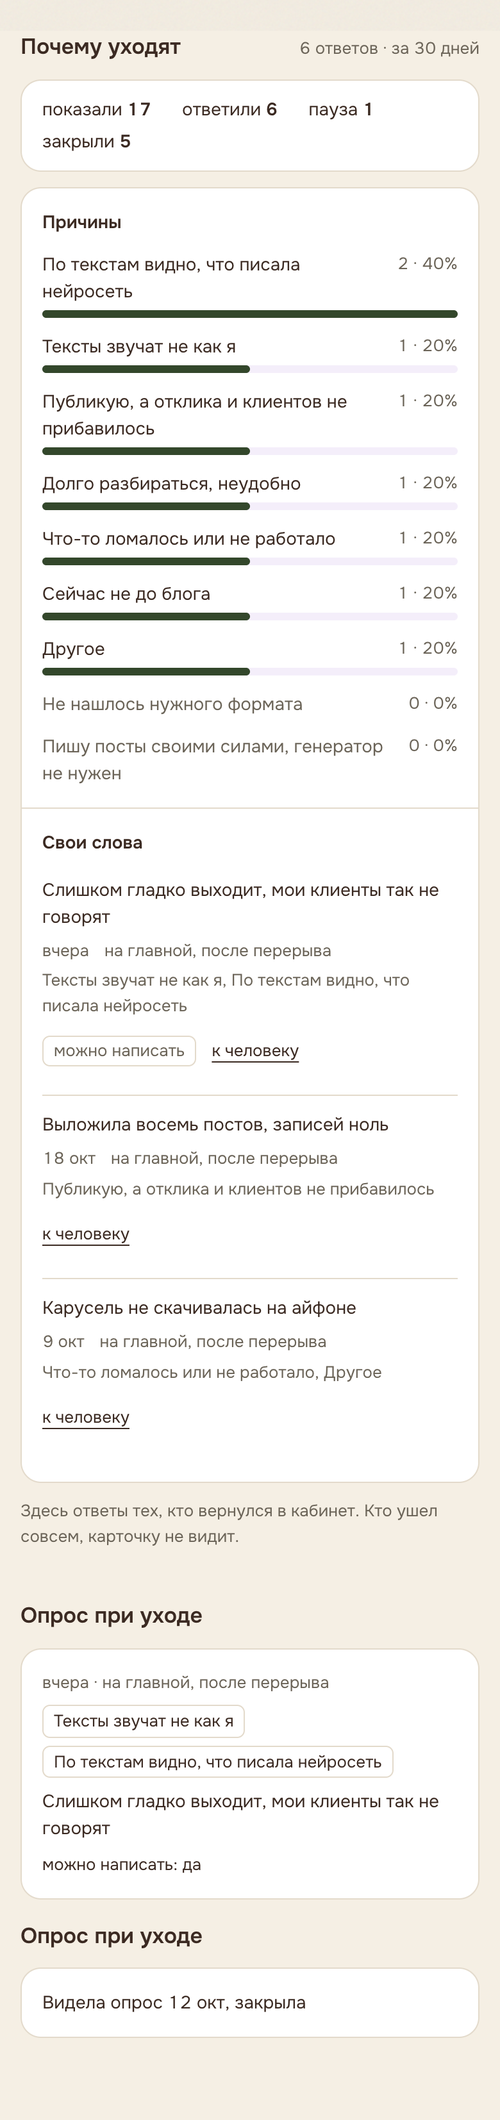
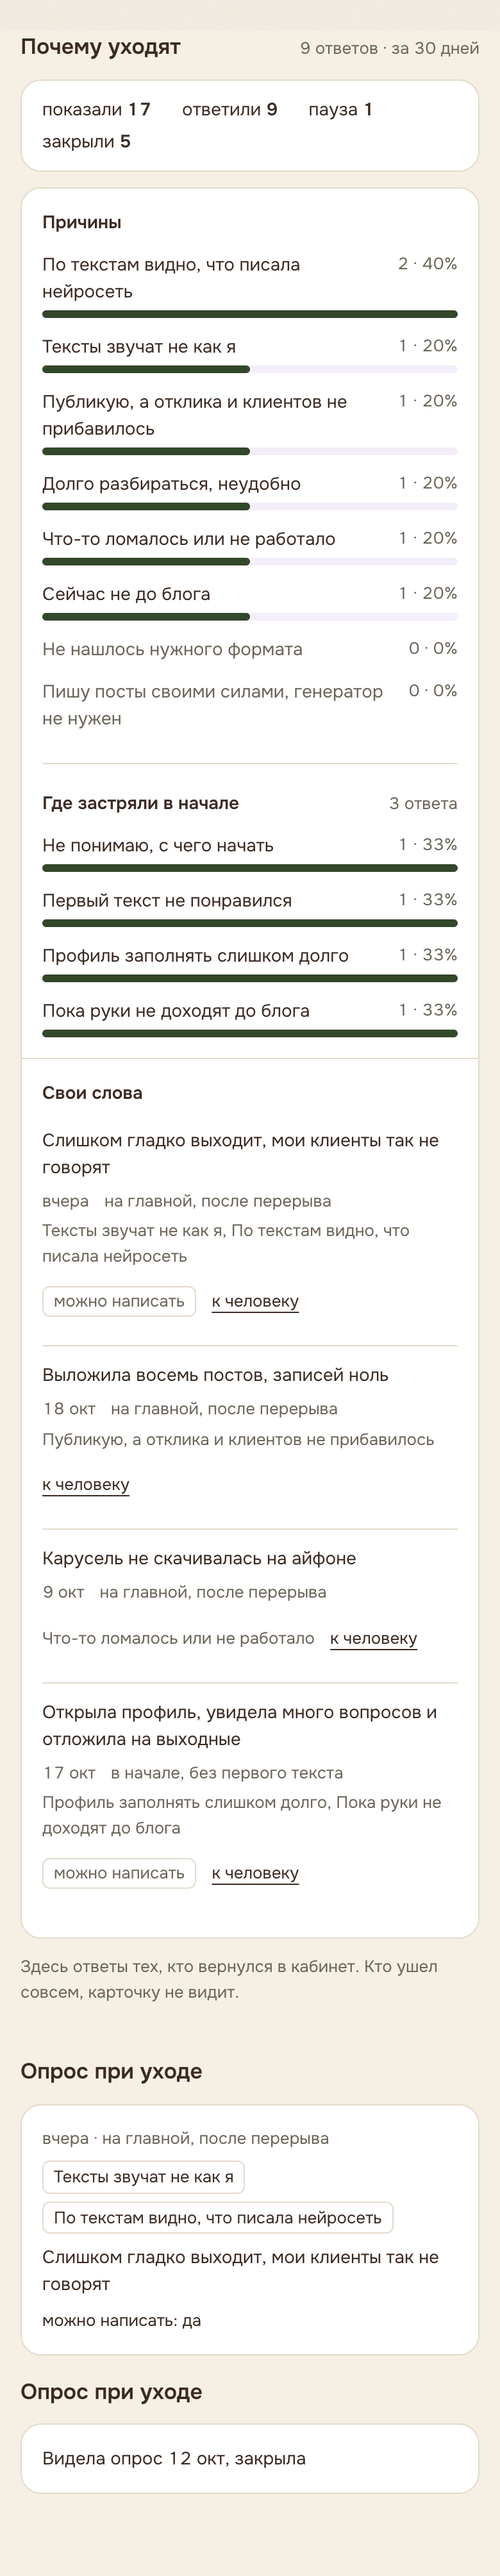
Аналитика 2: снимки с карточкой «Где все застопорилось?» и без «Другое»
(cherry picked from commit abc0c13b23e3bd711463e720f63574858b45a681)

Changed region(s): [[0.0308, 0.0, 0.9846, 0.9652], [0.7692, 0.4359, 0.8308, 0.467]]

diff --git a/_знания/analitika-2/SNIMKI.html b/_знания/analitika-2/SNIMKI.html
@@ -2,6 +2,7 @@
 <style>body{font-family:-apple-system,Helvetica,sans-serif;background:#F5EFE4;color:#3B2A22;margin:0;padding:24px}section{margin:40px 0}.r{display:flex;gap:24px;align-items:flex-start;flex-wrap:wrap}figure{margin:0;width:390px;max-width:100%}figure.d{width:min(900px,100%)}img{width:100%;border:1px solid #d8cfc0;border-radius:12px;background:#fff}figcaption{font-size:14px;margin-bottom:6px;color:#6B6458}.box{background:#fff;padding:16px 20px;border-radius:12px;max-width:900px}li{margin:4px 0}pre{white-space:pre-wrap;background:#fff;padding:16px;border-radius:12px;max-width:700px}</style>
 <h1>Аналитика 2</h1>
 <div class="box"><h2>Что сделано</h2><ul>
+<li>«Другое» убрано из причин, поле своих слов видно всегда. Новая карточка «Где все застопорилось?» один раз тем, кто зарегистрировался 3+ дня назад и ни разу не взял текст; вместе с опросом при уходе не показывается; в кабинете и сводке отдельной строкой.</li>
 <li>Опрос при уходе: карточка сверху главной для тех, кто остыл или ушел и вернулся (статус по прошлому визиту), один раз, потом 60 дней тишины, не больше 3 раз. Первая кнопка «Все в порядке, была пауза». Свои слова только в базе, в события идут коды.</li>
 <li>Кабинет: «Почему уходят» на Сводке, ответы в карточке человека, новая вкладка «Тексты»: что люди делают с текстами и шаблонность по неделям рядом с нормами живых, сиреневым где стало хуже.</li>
 <li>Шаблонность считает скрипт раз в неделю, в базу только числа. Частые цепочки только в локальный файл.</li>
@@ -12,5 +13,8 @@
 <section><h2>Карточка раскрыта: причины, свои слова, «можно написать»</h2><div class="r"><figure class=""><figcaption>Телефон 390</figcaption><a href="ui/390-survey-open.png"><img loading="lazy" src="ui/390-survey-open.png" alt=""></a></figure><figure class="d"><figcaption>Компьютер 1280</figcaption><a href="ui/1280-survey-open.png"><img loading="lazy" src="ui/1280-survey-open.png" alt=""></a></figure></div></section>
 <section><h2>Спасибо после ответа</h2><div class="r"><figure class=""><figcaption>Телефон 390</figcaption><a href="ui/390-survey-thanks.png"><img loading="lazy" src="ui/390-survey-thanks.png" alt=""></a></figure><figure class="d"><figcaption>Компьютер 1280</figcaption><a href="ui/1280-survey-thanks.png"><img loading="lazy" src="ui/1280-survey-thanks.png" alt=""></a></figure></div></section>
 <section><h2>Ответ «Все в порядке, была пауза»</h2><div class="r"><figure class=""><figcaption>Телефон 390</figcaption><a href="ui/390-survey-pause.png"><img loading="lazy" src="ui/390-survey-pause.png" alt=""></a></figure><figure class="d"><figcaption>Компьютер 1280</figcaption><a href="ui/1280-survey-pause.png"><img loading="lazy" src="ui/1280-survey-pause.png" alt=""></a></figure></div></section>
+<section><h2>Карточка «Где все застопорилось?» для тех, кто 3+ дня без первого текста</h2><div class="r"><figure class=""><figcaption>Телефон 390</figcaption><a href="ui/390-stuck-collapsed.png"><img loading="lazy" src="ui/390-stuck-collapsed.png" alt=""></a></figure><figure class="d"><figcaption>Компьютер 1280</figcaption><a href="ui/1280-stuck-collapsed.png"><img loading="lazy" src="ui/1280-stuck-collapsed.png" alt=""></a></figure></div></section>
+<section><h2>Она же раскрыта</h2><div class="r"><figure class=""><figcaption>Телефон 390</figcaption><a href="ui/390-stuck-open.png"><img loading="lazy" src="ui/390-stuck-open.png" alt=""></a></figure><figure class="d"><figcaption>Компьютер 1280</figcaption><a href="ui/1280-stuck-open.png"><img loading="lazy" src="ui/1280-stuck-open.png" alt=""></a></figure></div></section>
+<section><h2>Спасибо после ответа</h2><div class="r"><figure class=""><figcaption>Телефон 390</figcaption><a href="ui/390-stuck-thanks.png"><img loading="lazy" src="ui/390-stuck-thanks.png" alt=""></a></figure><figure class="d"><figcaption>Компьютер 1280</figcaption><a href="ui/1280-stuck-thanks.png"><img loading="lazy" src="ui/1280-stuck-thanks.png" alt=""></a></figure></div></section>
 <section><h2>Кабинет: «Почему уходят» и ответы в карточке человека (демо)</h2><div class="r"><figure class=""><figcaption>Телефон 390</figcaption><a href="ui/390-exits.png"><img loading="lazy" src="ui/390-exits.png" alt=""></a></figure><figure class="d"><figcaption>Компьютер 1280</figcaption><a href="ui/1280-exits.png"><img loading="lazy" src="ui/1280-exits.png" alt=""></a></figure></div></section>
 <section><h2>Кабинет: вкладка «Тексты» (демо)</h2><div class="r"><figure class=""><figcaption>Телефон 390</figcaption><a href="ui/390-texts.png"><img loading="lazy" src="ui/390-texts.png" alt=""></a></figure><figure class="d"><figcaption>Компьютер 1280</figcaption><a href="ui/1280-texts.png"><img loading="lazy" src="ui/1280-texts.png" alt=""></a></figure></div></section>
